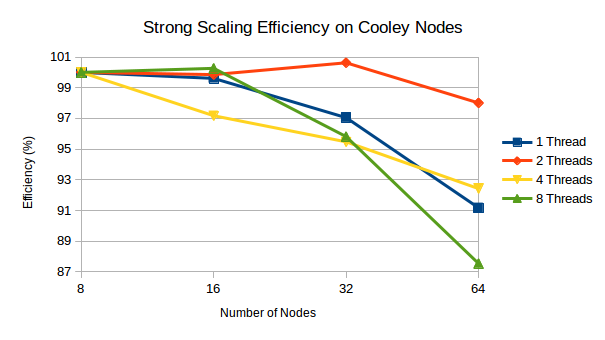
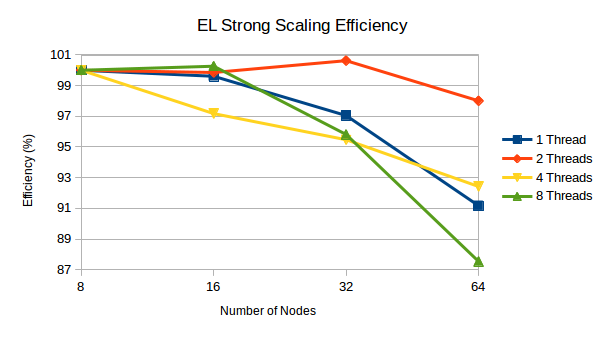
Fixes after my last meeting with George and Silvio. Replacement of algorithms by better suited figures. General improvement of charts. And explanation of super-linear scaling phenomenon.

diff --git a/bare_jrnl_compsoc.tex b/bare_jrnl_compsoc.tex
@@ -346,6 +346,27 @@
 
 
 
+% *** dirtytalk ***
+% This is a very small LaTeX package with only one available command: \say, shown in the next example:
+
+%\documentclass{article}
+%\usepackage[utf8]{inputenc}
+%\usepackage{dirtytalk}
+ 
+%\begin{document}
+%\section{Introduction}
+ 
+%Typing quotations with this package is quite easy:
+ 
+%\say{Here, a quotation is written and even some \say{nested} quotations 
+%are possible}
+ 
+%\end{document}
+\usepackage{dirtytalk}
+
+
+
+
 % *** PDF, URL AND HYPERLINK PACKAGES ***
 %
 \usepackage{url}
@@ -595,7 +616,7 @@ Regarding software for computational modeling implementation, in the last years,
 
 The first reason is that these frameworks enable to easily deal and work with big computational graphs without worrying about all those bookkeeping details. The second reason is that whenever working in \gls{dl} it will be always necessary to compute gradients, i.e. to compute some loss and then to compute the gradients about weights with respect to the loss. It would be better to make these operations as automated as possible. After all, nobody wants to struggle writing such code. Everyone wants the framework to handle all these backpropagation details. So the common scenario is writing only the forward pass of the network and having the backward pass sort of free without any significant addition to the code. Finally it is desirable to have all this stuff running efficiently on \glspl{gpu} so nobody have to worry too much about those low level hardware details such as cuBLAS and cuDNN packages in \gls{cuda}, moving data between the \gls{cpu} and the \gls{gpu}, etc. Everybody can keep all those messy details hidden by these tools which take care of them.
 
-With those essential points in mind, we had to consider important aspects to take into account in order to pursue the implementation of our computational model. Firstly, the biological plausibility of our model freesed us from the need to compute gradients. Even though there exist important works supporting the idea that backpropagation could be a phenomenon happening in cortical tissue~\cite{Guerguiev2017TowardsDL}, we think that there is not enough evidence as to include so complex mechanism in our model yet. Instead, we decided to be conservative in that respect. Secondly, \gls{dl} frameworks are mainly biased towards \gls{gpu} parallelization on \gls{cuda} cores. Albeit those frameworks have been extremely optimized to take the maximum advantage especially from NVIDIA cards, too many conditions has to be satisfied in order to get the best performance. Although such frameworks have made an outstanding progress in the last years together with the development of their complementary hardware, we glimpsed an acute specialization of such technologies towards the precise development of certain \gls{dl} frameworks with little room for innovative and specifically biologically plausible implementations. In that sense, one of the biggest problems in such approaches arise when trying to implement neural populations with sparse or random connectivity structures. Those implementations--strongly demanded in biologically plausible modelling--compromise coalescence in \gls{gpu} cards and seriously impairs performance~\cite{doi:10.3109/0954898X.2012.739292}.
+With those essential points in mind, we had to consider important aspects to take into account in order to pursue the implementation of our computational model. Firstly, the biological plausibility of our model freesed us from the need to compute gradients. Even though there exist important works supporting the idea that \emph{credit assignament}--the ultimate goal of backpropagation--could be a phenomenon happening in cortical tissue~\cite{Guerguiev2017TowardsDL}, we pondered that it is unknown that \emph{teaching signals} could exist in the brain and there is not enough evidence as to include so complex mechanism in our model yet. Instead, we decided to be conservative in that respect. Secondly, \gls{dl} frameworks are mainly biased towards \gls{gpu} parallelization on \gls{cuda} cores. Albeit those frameworks have been extremely optimized to take the maximum advantage especially from NVIDIA cards, too many conditions has to be satisfied in order to get the best performance. Although such frameworks have made an outstanding progress in the last years together with the development of their complementary hardware, we glimpsed an acute specialization of such technologies towards the precise development of certain \gls{dl} frameworks with little room for innovative and specifically biologically plausible implementations. In that sense, one of the biggest problems in such approaches arise when trying to implement neural populations with sparse or random connectivity structures. Those implementations--strongly demanded in biologically plausible modelling--compromise coalescence in \gls{gpu} cards and seriously impairs performance~\cite{doi:10.3109/0954898X.2012.739292}.
 
 Following this line, we implemented our model in \CC14 using \gls{oop} paradigm and parallelized it by means of a hybrid strategy using \gls{mpi} and \gls{omp}. The \gls{oop} paradigm gave us a powerful tool to compose modular structures allowing the manage of complex computational graphs. \gls{mpi} enabled our model to run in distributed memory systems in a coherent and stable way and \gls{omp} provided the fine grained distribution of the workload inside each compute node with the option to schedule the \gls{omp} threads dynamically, to manage different options of thread affinity and to vary the number of threads in each compute node among other options. Finally, the use of \gls{stl} containers with the header \texttt{<algorithm>} which defines a collection of functions especially designed to be used on ranges of elements, provided our implementation with \gls{simd} vector parallelization in each thread.
 
@@ -813,20 +834,20 @@ The \glsfirst{ssom} class implements proximal connections, the \glsfirst{dsom} c
 \subsubsection{\glsfirst{el} Parallelization}
 \label{EL_Parallelization}
 
-We parallelized the \gls{el} class by means of a hybrid \gls{mpi}+\gls{omp} paradigm distributing \glspl{csom} among \gls{mpi} ranks as a deck of cards is distributed among different players. Each \gls{mpi} rank ends up with one or more \glspl{csom} and the \glspl{csom} in each rank are distributed among different \gls{omp} threads (Fig. \ref{fig:Encoder_Parallelization} and Alg.~\ref{ccs_distribution}).
+We parallelized the \gls{el} class by means of a hybrid \gls{mpi}+\gls{omp} paradigm distributing \glspl{csom} among \gls{mpi} ranks as a deck of cards is distributed among different players. Each \gls{mpi} rank ends up with one or more \glspl{csom} and the \glspl{csom} in each rank are distributed among different \gls{omp} threads (Fig. \ref{fig:Encoder_Parallelization}).% and Alg.~\ref{ccs_distribution}).
 
-\begin{algorithm}
-	\caption{This algorithm distributes \glspl{cc} among \gls{mpi} processes in a distributed memory system and the \glspl{cc} in each process are distributed among \gls{omp} threads in a shared memory system. In this algorithm we run one \gls{mpi} process per compute node on Cooley.}
-\label{ccs_distribution}
-\begin{algorithmic}[1]
-	\STATE {\texttt{numberOfProcesses} = getNumberOfProcesses()}
-	\STATE {\texttt{processNumber} = getProcessNumber()}
-	\STATE {\#\textbf{pragma omp parallel for} default(none) shared(\texttt{processNumber}, \texttt{numberOfProcesses})}
-	\FOR{\texttt{column} = \texttt{processNumber} \TO \texttt{column} = number of \glspl{cc}; \texttt{column} += \texttt{numberOfProcesses}}
-	\STATE {Do \gls{csom} stuff...}
-	\ENDFOR
-\end{algorithmic}
-\end{algorithm}
+%\begin{algorithm}
+	%\caption{This algorithm distributes \glspl{cc} among \gls{mpi} processes in a distributed memory system and the \glspl{cc} in each process are distributed among \gls{omp} threads in a shared memory system. In this algorithm we run one \gls{mpi} process per compute node on Cooley.}
+%\label{ccs_distribution}
+%\begin{algorithmic}[1]
+	%\STATE {\texttt{numberOfProcesses} = getNumberOfProcesses()}
+	%\STATE {\texttt{processNumber} = getProcessNumber()}
+	%\STATE {\#\textbf{pragma omp parallel for} default(none) shared(\texttt{processNumber}, \texttt{numberOfProcesses})}
+	%\FOR{\texttt{column} = \texttt{processNumber} \TO \texttt{column} = number of \glspl{cc}; \texttt{column} += \texttt{numberOfProcesses}}
+	%\STATE {Do \gls{csom} stuff...}
+	%\ENDFOR
+%\end{algorithmic}
+%\end{algorithm}
 
 \begin{figure}[h!]
     \centering
@@ -877,48 +898,59 @@ In this work, each \gls{mpi} rank runs in a diferent Cooley node and keeps all t
 
 \subsection{\gls{mrstsa} Implementation}
 
-We implemented the \gls{mrstsa} algorithm in C using the package FFTW~\cite{fftw} which is an implementation of the \gls{fft} available on Cooley. We used \gls{mpi}+\gls{omp} hybrid parallelization approach. We parallelized the \gls{mrstsa} algorithm developed in \cite{Dematties2018} by means of \gls{omp} sections using one \gls{omp} section per spectral resolution and running until 5 \gls{omp} threads per Cooley node (Alg. ~\ref{MRSTSA_parallelization}). In terms of \gls{mpi} we processed a set of corpora per \gls{mpi} rank. The algorithm generates certain number of corpora per vocabulary. Supposing that we have $n$ vocabularies and $m$ corpora per vocabulary, we end up with $n m$ corpora. Unlike the corpora generation parallelization algorithm exposed in Alg.~\ref{fig:CorporaGenerationParallelization} and explained in section~\ref{CorpGenImp} in this case we unroll the nested loop that iterates through corpora and vocabularies. The \gls{mpi} parallelization is exposed in Alg~\ref{input_generation_parallelization}
+We implemented the \gls{mrstsa} algorithm in C using the package FFTW~\cite{fftw} which is an implementation of the \gls{fft} available on Cooley. We used \gls{mpi}+\gls{omp} hybrid parallelization approach. We parallelized the \gls{mrstsa} algorithm developed in \cite{Dematties2018} by means of \gls{omp} sections using one \gls{omp} section per spectral resolution and running until 5 \gls{omp} threads per Cooley node (Fig.~\ref{sub:MRSTSA_Parallelization}). In terms of \gls{mpi} we processed a set of corpora per \gls{mpi} rank. The algorithm generates certain number of corpora per vocabulary. Supposing that we have $n$ vocabularies and $m$ corpora per vocabulary, we end up with $n m$ corpora. Unlike the corpora generation parallelization algorithm exposed in Alg.~\ref{fig:CorporaGenerationParallelization} and explained in section~\ref{CorpGenImp} in this case we unroll the nested loop that iterates through corpora and vocabularies. The \gls{mpi} parallelization is exposed in Fig.~\ref{sub:MRSTSA_ALG}.
 
-\begin{algorithm}
-	\caption{This algorithm is called \gls{mrstsa} and distributes the different spectral resolutions--processing a corpus--among \gls{omp} threads running until 5 \gls{omp} threads concurrently in order to generate such corpus processing.}
-\label{MRSTSA_parallelization}
-\begin{algorithmic}[1]
-	\STATE {\#\bf{pragma omp parallel sections}}
-	\STATE {~~\#\bf{pragma omp section}}
-	\STATE {~~~~Do stuff...}
-	\STATE {~~\#\bf{pragma omp section}}
-	\STATE {~~~~Do stuff...}
-	\STATE {~~\#\bf{pragma omp section}}
-	\STATE {~~~~Do stuff...}
-	\STATE {~~\#\bf{pragma omp section}}
-	\STATE {~~~~Do stuff...}
-	\STATE {~~\#\bf{pragma omp section}}
-	\STATE {~~~~Do stuff...}
-\end{algorithmic}
-\end{algorithm}
+%\begin{algorithm}
+	%\caption{This algorithm is called \gls{mrstsa} and distributes the different spectral resolutions--processing a corpus--among \gls{omp} threads running until 5 \gls{omp} threads concurrently in order to generate such corpus processing.}
+%\label{MRSTSA_parallelization}
+%\begin{algorithmic}[1]
+	%\STATE {\#\bf{pragma omp parallel sections}}
+	%\STATE {~~\#\bf{pragma omp section}}
+	%\STATE {~~~~Do stuff...}
+	%\STATE {~~\#\bf{pragma omp section}}
+	%\STATE {~~~~Do stuff...}
+	%\STATE {~~\#\bf{pragma omp section}}
+	%\STATE {~~~~Do stuff...}
+	%\STATE {~~\#\bf{pragma omp section}}
+	%\STATE {~~~~Do stuff...}
+	%\STATE {~~\#\bf{pragma omp section}}
+	%\STATE {~~~~Do stuff...}
+%\end{algorithmic}
+%\end{algorithm}
 
-\begin{algorithm}
-	\caption{This algorithm distributes corpora among \gls{mpi} processes and each \gls{mpi} process run until 5 \gls{omp} threads concurrently in order to generate each corpus. In this algorithm we run one \gls{mpi} process per Cooley node.}
-\label{input_generation_parallelization}
-\begin{algorithmic}[1]
-	\STATE {\texttt{numberOfProcesses} = getNumberOfProcesses()}
-	\STATE {\texttt{processNumber} = getProcessNumber()}
-	\FOR{\texttt{task} = 0 \TO \texttt{task} = \texttt{numberOfVocabularies} * \texttt{numberOfCorpora}}
-		\STATE {\texttt{corpus} = (\texttt{int})\texttt{task}/\texttt{numberOfVocabularies}}
-		\STATE {\texttt{vocabulary} = \texttt{task}\%\texttt{numberOfVocabularies}}
-		\STATE {MRSTSA(\texttt{corpus}, \texttt{vocabulary})}
-	\ENDFOR
-\end{algorithmic}
-\end{algorithm}
+%\begin{algorithm}
+	%\caption{This algorithm distributes corpora among \gls{mpi} processes and each \gls{mpi} process run until 5 \gls{omp} threads concurrently in order to generate each corpus. In this algorithm we run one \gls{mpi} process per Cooley node.}
+%\label{input_generation_parallelization}
+%\begin{algorithmic}[1]
+	%\STATE {\texttt{numberOfProcesses} = getNumberOfProcesses()}
+	%\STATE {\texttt{processNumber} = getProcessNumber()}
+	%\FOR{\texttt{task} = 0 \TO \texttt{task} = \texttt{numberOfVocabularies} * \texttt{numberOfCorpora}}
+		%\STATE {\texttt{corpus} = (\texttt{int})\texttt{task}/\texttt{numberOfVocabularies}}
+		%\STATE {\texttt{vocabulary} = \texttt{task}\%\texttt{numberOfVocabularies}}
+		%\STATE {MRSTSA(\texttt{corpus}, \texttt{vocabulary})}
+	%\ENDFOR
+%\end{algorithmic}
+%\end{algorithm}
 
 The complete parallelization scheme is depicted in Fig.~\ref{fig:MRSTSA_Parallelization}. Corpora are distributed among \gls{mpi} ranks as a deck of cards is distributed among players. Each \gls{mpi} rank ends up with a set of corpora which it processes one at a time--sequentially. Each corpus processing runs 5 \gls{omp} threads concurrently in order to process the spectral resolutions of the corpus. 
 
-\begin{figure}[h!]
+\begin{figure*}[tb] 
     \centering
-    \includegraphics[width=0.4\textwidth]{MRSTSA_Parallelization.png}
-    \caption{Parallelization scheme for the \gls{mrstsa}. Ten corpora processing are distributed among \gls{mpi} ranks. Each rank processes one corpus at a time sequentially but each corpus spectral resolution is processed concurrently by means of \gls{omp} threads.}
-    \label{fig:MRSTSA_Parallelization}
-\end{figure}
+  \subfloat[This algorithm distributes corpora among \gls{mpi} processes and each \gls{mpi} process run until 5 \gls{omp} threads concurrently in order to generate each corpus.\label{sub:MRSTSA_ALG}]{%
+       \includegraphics[width=0.49\linewidth]{MRSTSA_ALG.png}}
+    \hfill
+  \subfloat[Ten corpora processing are distributed among \gls{mpi} ranks. Each rank processes one corpus at a time sequentially but each corpus spectral resolution is processed concurrently by means of \gls{omp} threads.\label{sub:MRSTSA_Parallelization}]{%
+        \includegraphics[width=0.49\linewidth]{MRSTSA_Parallelization.png}}
+	\caption{Parallelization scheme for the \gls{mrstsa}. In this algorithm we run one \gls{mpi} process per Cooley node. The \gls{mrstsa} algorithm distributes the different spectral resolutions--processing a corpus--among \gls{omp} threads running until 5 \gls{omp} threads concurrently in order to generate such corpus processing.}
+  \label{fig:MRSTSA_Parallelization} 
+\end{figure*}
+
+%\begin{figure}[h!]
+    %\centering
+    %\includegraphics[width=0.4\textwidth]{MRSTSA_Parallelization.png}
+    %\caption{Parallelization scheme for the \gls{mrstsa}. Ten corpora processing are distributed among \gls{mpi} ranks. Each rank processes one corpus at a time sequentially but each corpus spectral resolution is processed concurrently by means of \gls{omp} threads.}
+    %\label{fig:MRSTSA_Parallelization}
+%\end{figure}
 
 
 
@@ -939,30 +971,41 @@ The complete parallelization scheme is depicted in Fig.~\ref{fig:MRSTSA_Parallel
 
 We generated corpora with randomly chosen English mono and multisyllabic words~\cite{Dematties2018} using \gls{festival} Synthesis \cite{festival2014}. To that end, we generated cross synthesizer standard mark up language SABLE \cite{sable} files. In those files, we instructed \gls{festival} to generate audio \texttt{wav} files with the corpora uttered by different voices available from the synthesizer.
 
-All the code that generates the corpora is implemented in Python and parallelized by means of a \gls{mpi} for Python package called \texttt{mpi4py}. The algorithmic implementation of this parallelization is shown in Alg.~\ref{corpora_generation_parallelization} and Fig.~\ref{fig:CorporaGenerationParallelization}.
+All the code that generates the corpora is implemented in Python and parallelized by means of a \gls{mpi} for Python package called \texttt{mpi4py}. The algorithmic implementation of this parallelization is shown in Fig.~\ref{fig:CorporaGenerationParallelization}.
 
-\begin{algorithm}
-	\caption{This algorithm distributes vocabularies among \gls{mpi} processes. In this algorithm we run one \gls{mpi} process per \gls{cpu} on Cooley.}
-\label{corpora_generation_parallelization}
-\begin{algorithmic}[1]
-	\STATE {\texttt{numberOfProcesses} = getNumberOfProcesses()}
-	\STATE {\texttt{processNumber} = getProcessNumber()}
-	\FOR{\texttt{vocabulary} = 0 \TO \texttt{vocabulary} = \texttt{numberOfVocabularies}}
-		\IF{\texttt{corpus}\%\texttt{numberOfProcesses}==\texttt{processNumber}}
-			\FOR{\texttt{corpus} = 0 \TO \texttt{corpus} = \texttt{numberOfCorpora}}
-				\STATE {Call \gls{festival} to generate an audio file from this \texttt{corpus} from this \texttt{vocabulary}...}
-			\ENDFOR
-		\ENDIF
-	\ENDFOR
-\end{algorithmic}
-\end{algorithm}
+%\begin{algorithm}
+	%\caption{This algorithm distributes vocabularies among \gls{mpi} processes. In this algorithm we run one \gls{mpi} process per \gls{cpu} on Cooley.}
+%\label{corpora_generation_parallelization}
+%\begin{algorithmic}[1]
+	%\STATE {\texttt{numberOfProcesses} = getNumberOfProcesses()}
+	%\STATE {\texttt{processNumber} = getProcessNumber()}
+	%\FOR{\texttt{vocabulary} = 0 \TO \texttt{vocabulary} = \texttt{numberOfVocabularies}}
+		%\IF{\texttt{corpus}\%\texttt{numberOfProcesses}==\texttt{processNumber}}
+			%\FOR{\texttt{corpus} = 0 \TO \texttt{corpus} = \texttt{numberOfCorpora}}
+				%\STATE {Call \gls{festival} to generate an audio file from this \texttt{corpus} from this \texttt{vocabulary}...}
+			%\ENDFOR
+		%\ENDIF
+	%\ENDFOR
+%\end{algorithmic}
+%\end{algorithm}
 
-\begin{figure}[h!]
+\begin{figure*}[tb] 
     \centering
-    \includegraphics[width=0.4\textwidth]{CorporaGenerationParallelization.png}
-    \caption{Distribution of corpora generation among Python \gls{mpi} ranks. The corpora generation tasks are distributed among Python \gls{mpi} ranks as a deck of cards is distributed among players. Each \gls{mpi} rank will end up with a set of vocabularies to generate the corpora corresponding to such vocabularies (i.e. if we have 10 corpora per vocabulary, rank 0 will end up generating 40 corpora serially while ranks 1 and 2 will generate 30 corpora each serially.}
-    \label{fig:CorporaGenerationParallelization}
-\end{figure}
+  \subfloat[This algorithm distributes vocabularies among \gls{mpi} processes. In this algorithm we run one \gls{mpi} process per \gls{cpu} on Cooley.\label{sub:Corpora_Generation_ALG}]{%
+       \includegraphics[width=0.49\linewidth]{Corpora_Generation_ALG.png}}
+    \hfill
+  \subfloat[Each \gls{mpi} rank will end up with a set of vocabularies to generate the corpora corresponding to such vocabularies (i.e. if we have 10 corpora per vocabulary, rank 0 will end up generating 40 corpora serially while ranks 1 and 2 will generate 30 corpora each serially.\label{sub:CorporaGenerationParallelization}]{%
+        \includegraphics[width=0.49\linewidth]{CorporaGenerationParallelization.png}}
+	\caption{Parallelization scheme for the Corpora Generation Process. This is a distribution of corpora generation among Python \gls{mpi} ranks. The corpora generation tasks are distributed among Python \gls{mpi} ranks as a deck of cards is distributed among players.}
+  \label{fig:CorporaGenerationParallelization} 
+\end{figure*}
+
+%\begin{figure}[h!]
+    %\centering
+    %\includegraphics[width=0.4\textwidth]{CorporaGenerationParallelization.png}
+    %\caption{Distribution of corpora generation among Python \gls{mpi} ranks. The corpora generation tasks are distributed among Python \gls{mpi} ranks as a deck of cards is distributed among players. Each \gls{mpi} rank will end up with a set of vocabularies to generate the corpora corresponding to such vocabularies (i.e. if we have 10 corpora per vocabulary, rank 0 will end up generating 40 corpora serially while ranks 1 and 2 will generate 30 corpora each serially.}
+    %\label{fig:CorporaGenerationParallelization}
+%\end{figure}
 
 
 
@@ -1016,9 +1059,9 @@ Fig. \ref{fig:EL_Strong_Scaling} shows the strong scaling capacity of our code i
   \subfloat[Run time vs. the number of nodes for different number of threads per node.\label{sub:EL_Strong_Scaling1_Left}]{%
        \includegraphics[width=0.49\linewidth]{EL_Strong_Scaling1_Left.png}}
     \hfill
-  \subfloat[Efficiency vs. the number of nodes for different numbers of threads per node. Reference is taken from 8 computing nodes ahead.\label{sub:EL_Strong_Scaling1_Right}]{%
+    \subfloat[Efficiency vs. the number of nodes for different numbers of threads per node. Race line (reference) is taken at 8 computing nodes.\label{sub:EL_Strong_Scaling1_Right}]{%
         \includegraphics[width=0.49\linewidth]{EL_Strong_Scaling1_Right.png}}
-	\caption{Strong scaling tests of the \gls{el} algorithm on Cooley nodes.}
+	\caption{Strong scaling tests of the \gls{el} algorithm on Cooley nodes. Each \gls{mpi} rank runs in a different node with 1, 2, 4 and 8 \gls{omp} threads running in each rank.}
   \label{fig:EL_Strong_Scaling} 
 \end{figure*}
 
@@ -1113,7 +1156,7 @@ Fig.~\ref{fig:EL_Weak_Scaling} shows the weak scaling performance of the model. 
   \subfloat[Efficiency vs. the number of nodes for different numbers of threads per node.\label{sub:EL_Weak_Scaling_Right}]{%
         \includegraphics[width=0.49\linewidth]{EL_Weak_Scaling_Right.png}}
 
-	\caption{Weak scaling tests of the \gls{el} algorithm on Cooley nodes.}
+	\caption{Weak scaling tests of the \gls{el} algorithm on Cooley nodes. Each \gls{mpi} rank runs in a different node with 1, 2, 4 and 8 \gls{omp} threads running in each rank.}
   \label{fig:EL_Weak_Scaling} 
 \end{figure*}
 
@@ -1166,7 +1209,7 @@ We tested the scaling capacity of this code on Cooley nodes. In terms of Strong 
     \hfill
   \subfloat[Efficiency vs. the number of nodes for 5 threads per node.\label{sub:MRSTSA_Weak_Scaling_Efficiency}]{%
         \includegraphics[width=0.49\linewidth]{MRSTSA_Weak_Scaling_Efficiency.png}}
-	\caption{Strong and Weak scaling tests of the \gls{mrstsa} algorithm on Cooley nodes.}
+	\caption{Strong and Weak scaling tests of the \gls{mrstsa} algorithm on Cooley nodes. Each \gls{mpi} rank runs in a different node with 1, 2, 4 and 5 \gls{omp} threads running in each rank.}
   \label{fig:MRSTSA_Scaling} 
 \end{figure*}
 
@@ -1223,18 +1266,18 @@ In terms of Strong and Weak scaling (Fig.~\ref{fig:Corpora_Scaling}), we ran the
 
 \begin{figure*}[tb] 
     \centering
-  \subfloat[Strong Scaling. Run time vs. the number of \glspl{cpu}.\label{sub:Corpora_Strong_Scaling}]{%
+  \subfloat[Run time vs. the number of \glspl{cpu}.\label{sub:Corpora_Strong_Scaling}]{%
        \includegraphics[width=0.49\linewidth]{Corpora_Strong_Scaling.png}}
     \hfill
-  \subfloat[Weak scaling. Run time vs. the number of \glspl{cpu}.\label{sub:Corpora_Weak_Scaling}]{%
+  \subfloat[Run time vs. the number of \glspl{cpu}.\label{sub:Corpora_Weak_Scaling}]{%
 	\includegraphics[width=0.49\linewidth]{Corpora_Weak_Scaling.png}}
 \\
-  \subfloat[Strong Scaling. Efficiency vs. the number of \glspl{cpu}.\label{sub:Corpora_Strong_Scaling_Efficiency}]{%
+  \subfloat[Efficiency vs. the number of \glspl{cpu}.\label{sub:Corpora_Strong_Scaling_Efficiency}]{%
        \includegraphics[width=0.49\linewidth]{Corpora_Strong_Scaling_Efficiency.png}}
     \hfill
-  \subfloat[Weak scaling. Efficiency vs. the number of \glspl{cpu}.\label{sub:Corpora_Weak_Scaling_Efficiency}]{%
+  \subfloat[Efficiency vs. the number of \glspl{cpu}.\label{sub:Corpora_Weak_Scaling_Efficiency}]{%
 	\includegraphics[width=0.49\linewidth]{Corpora_Weak_Scaling_Efficiency.png}}
-  \caption{Strong and Weak scaling test of Corpora Generation on Cooley nodes. Since Cooley nodes have 12 \glspl{cpu} we had to ask for 2 nodes in order to run on 16 \glspl{cpu}, 3 nodes in order to run on 32 \glspl{cpu} and 6 nodes in order to run on 64 \glspl{cpu}.}
+	\caption{Strong and Weak scaling test of Corpora Generation on Cooley nodes. Each Python \gls{mpi} rank runs in a different \gls{cpu}. Since Cooley nodes have 12 \glspl{cpu} we had to ask for 2 nodes in order to run on 16 \glspl{cpu}, 3 nodes in order to run on 32 \glspl{cpu} and 6 nodes in order to run on 64 \glspl{cpu}.}
   \label{fig:Corpora_Scaling} 
 \end{figure*}
 
@@ -1270,7 +1313,9 @@ In this paper we show how parallelization strategies with great independence on 
 
 Algorithmic implementations strongly based on \gls{simd} parallel computing architectures, impose important restrictions on memory data alignment. \gls{omp} threads in shared memory systems are instead highly independent and powerful processing abstractions which can perform complex task with eventual vectorization optimizations when possible.
 
-Our findings show that the parallelization strategies used in this work present good and robust scaling efficiency even in front of intensive \gls{ipc} loads. Such behavior can be kept in a sustained manner as long as a minimum of balance in the computational load among different threads remains. In section~\ref{MRSTSA_Scaling_Tests} we showed very high scaling efficiencies. Yet, we warned about difficulties in front of a context with uneven corpus sizes. Achieving load balance in distributed memory systems is extremely expensive given the amount of \gls{ipc} overload needed. In this manner, we claim that the best way to balance computational load among computing elements is to try to confine as much computational load as possible in a shared memory unit without exceeding the concurrent threading or hyperthreading capacity provided by a node. Once such conditions are satisfied it is relatively straightforward to spawn a bunch of threads in which the work could be distributed. Once in a shared memory system, \gls{omp} threads are much lighter that \gls{mpi} processes since threads do not duplicate heap nor program and they do not need complex communication methos to share data. Furthermore, \gls{omp} threads can manage load balancing efficiently and automatically since \gls{omp} manages dynamic parallel schedule for you. In \gls{mpi} the programmer has to deal with load balancing using intensive \gls{ipc} which is highly expensive especially when the communication is carried out among processes in different nodes. On the other side \gls{omp} threads suffer from false shearing in the \glspl{cpu} caches, but with a highly flexible parallelization scheme as the one used in section \ref{EL_Parallelization} the user can flexibly vary the parallelization granularity as to achieve the best performance avoiding that each thread exceeds the quota of cache memory available in each \gls{cpu}.
+Our findings show that the parallelization strategies used in this work present good and robust scaling efficiency even in front of intensive \gls{ipc} loads. Such behavior can be kept in a sustained manner as long as a minimum of balance in the computational load among different threads remains. In section~\ref{MRSTSA_Scaling_Tests} we showed very high scaling efficiencies. Yet, we warned about difficulties in front of a context with uneven corpus sizes. Achieving load balance in distributed memory systems is extremely expensive given the amount of \gls{ipc} overload needed. In this manner, we claim that the best way to balance computational load among computing elements is to try to confine as much computational load as possible in a shared memory unit without far exceeding the concurrent threading or hyperthreading capacity provided by a node. Once such conditions are satisfied it is relatively straightforward to spawn a bunch of threads in which the work could be distributed. Once in a shared memory system, \gls{omp} threads are much lighter that \gls{mpi} processes since threads do not duplicate heap nor program and they do not need complex communication methos to share data. Furthermore, \gls{omp} threads can manage load balancing efficiently and automatically since \gls{omp} manages dynamic parallel schedule for you. This is highly desirable specially in a simulation environment in which individual modules--such as \glspl{cc} in our cortical model--are not uniformly analogous in terms of size and or connectivity. In \gls{mpi} instead, the programmer has to deal with load balancing using intensive \gls{ipc} which is highly expensive especially when the communication is carried out among processes in different nodes. On the other side \gls{omp} threads suffer from false shearing in the \glspl{cpu} caches, but with a highly flexible parallelization scheme as the one used in section \ref{EL_Parallelization} the user can flexibly vary the parallelization granularity as to achieve the best performance avoiding that each thread exceeds the quota of cache memory available in each \gls{cpu}.
+
+In Figs.~\ref{fig:EL_Strong_Scaling}, \ref{fig:EL_Weak_Scaling}, \ref{fig:MRSTSA_Scaling} and \ref{fig:Corpora_Scaling}, the phenomenon of \emph{superlinear-speedup} is present for several cases. In \cite{7733347} the authors pointed out that: \say{Mainly the superlinear speedup performance in persistent algorithms occurs due to the increased cache resources in the parallel computer architectures, the prefetching of shared variables in shared memory organization, or better scheduling in heterogeneous environments. The effects of the shared memory architectures also impact the performance behavior of the granular and scalable algorithms}. We absolutely endorse such statement and consider it sustainable as a general explanation for our case. Nevertheless, we also consider that more in depth analysis of memory utilization using profiling tools will be needed in the future.  
 
 In section~\ref{EL_Parallelization} some problems could arise when a single \gls{cc} is too large to share a computing node with many others. If just 2 \glspl{cc} could fit in a node, the parallelization granularity would be very poor, but \gls{omp} is highly versatile and can easily manage nested threading. In such case we could vary the parallelization granularity in an extremely accessible manner with all the advantages of \gls{omp} in terms of dynamic load balancing. This nested parallelization strategy could be applied in section~\ref{MRSTSA_Scaling_Tests} in front of an eventual unbalanced computational load from an uneven corpora size distribution. 
 
@@ -1398,7 +1443,7 @@ Independence of data coalescence, flexible granularity reconfiguration, dynamica
 
 We consider such features of fundamental importance for the usage of this parallelization procedure in highly variable computational scientific scenarios with irregularly structured datasets typically found in biologically inspired research approaches.
 
-By means of the results returned by this round of test, we consider this parallelization policy as viable to be used in high-end leadership supercomputers in the future.
+By means of the results returned by this round of tests, we esteem this parallelization policy as viable to be used in high-end leadership supercomputers in the future.
 
 
 
